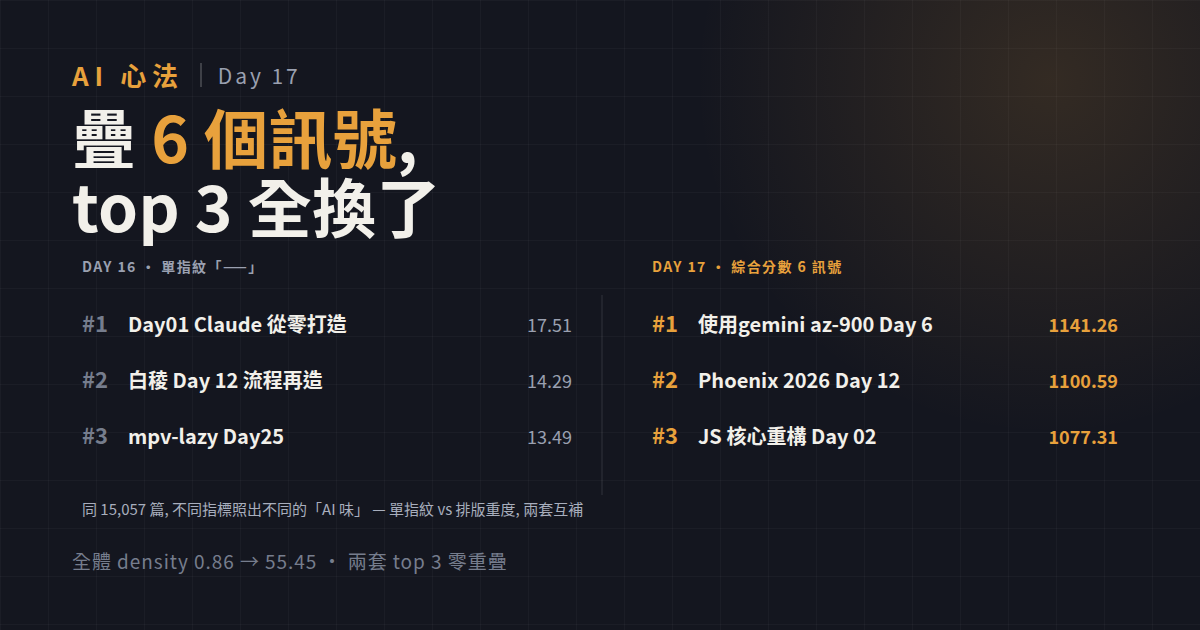
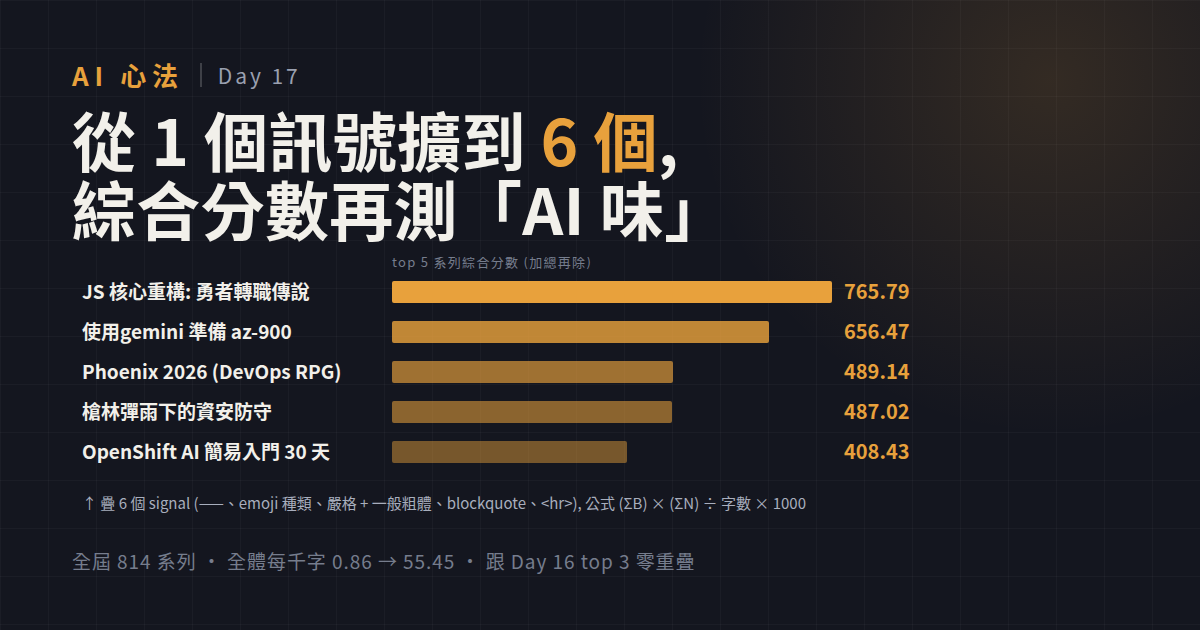
Day 17 cover 改版: 仿 Day 16 樣式, 標題貼近原文
- 版式改成 Day 16 的水平長條圖 (top 5 系列綜合分數)
- 標題貼近 draft 原文: 「從 1 個訊號擴到 6 個, 綜合分數再測「AI 味」」, em 標「6 個」
- 5 根 bar: JS 核心重構 765.79 (full gold) → gemini az-900 656.47 → Phoenix 2026 489.14 → 槍林彈雨 487.02 → OpenShift AI 408.43 (bar 透明度漸降)
- 圖下註解: 「↑ 疊 6 個 signal (——、emoji 種類、嚴格 + 一般粗體、blockquote、<hr>), 公式 (ΣB) × (ΣN) ÷ 字數 × 1000」
- Foot: 全屆 814 系列 · 全體每千字 0.86 → 55.45 · 跟 Day 16 top 3 零重疊

diff --git a/05-notes/ironman/assets/cover-day17.html b/05-notes/ironman/assets/cover-day17.html
@@ -22,47 +22,41 @@ text{font-family:"Noto Sans CJK TC",sans-serif}
 <div class="wrap">
   <div class="top"><span class="mark">AI 心法</span><span class="bar"></span><span class="day">Day 17</span></div>
   <div>
-    <h1>疊 <em>6 個訊號</em>,<br>top 3 全換了</h1>
+    <h1>從 1 個訊號擴到 <em>6 個</em>,<br>綜合分數再測「AI 味」</h1>
   </div>
   <div class="chartwrap">
-  <svg width="1056" height="280" viewBox="0 0 1056 280">
-    <!-- Column headers -->
-    <text x="10" y="22" fill="#9aa0b0" font-size="14" letter-spacing=".1em" font-weight="700">DAY 16 · 單指紋「——」</text>
-    <text x="580" y="22" fill="#e8a13c" font-size="14" letter-spacing=".1em" font-weight="700">DAY 17 · 綜合分數 6 訊號</text>
+  <svg width="1056" height="270" viewBox="0 0 1056 270">
+    <!-- x-axis label -->
+    <text x="320" y="0" fill="#767d8d" font-size="13" letter-spacing=".1em" dy="10">top 5 系列綜合分數 (加總再除)</text>
 
-    <!-- Vertical divider -->
-    <line x1="530" y1="45" x2="530" y2="245" stroke="#ffffff20" stroke-width="1"/>
+    <!-- Row 1: JS 核心重構 (top, full gold) -->
+    <text x="10" y="42" fill="#f2f0ea" font-size="19" font-weight="700">JS 核心重構: 勇者轉職傳說</text>
+    <rect x="320" y="24" width="440" height="22" fill="#e8a13c" rx="2"/>
+    <text x="772" y="42" fill="#e8a13c" font-size="20" font-weight="900">765.79</text>
 
-    <!-- Row 1 -->
-    <text x="10" y="82" fill="#767d8d" font-size="22" font-weight="900">#1</text>
-    <text x="56" y="82" fill="#f2f0ea" font-size="20" font-weight="700">Day01 Claude 從零打造</text>
-    <text x="500" y="82" fill="#9aa0b0" font-size="18" text-anchor="end">17.51</text>
+    <!-- Row 2: 使用gemini 準備 az-900 -->
+    <text x="10" y="82" fill="#f2f0ea" font-size="19" font-weight="700">使用gemini 準備 az-900</text>
+    <rect x="320" y="64" width="377" height="22" fill="#e8a13cd0" rx="2"/>
+    <text x="772" y="82" fill="#e8a13c" font-size="20" font-weight="900">656.47</text>
 
-    <text x="580" y="82" fill="#e8a13c" font-size="22" font-weight="900">#1</text>
-    <text x="626" y="82" fill="#f2f0ea" font-size="20" font-weight="700">使用gemini az-900 Day 6</text>
-    <text x="1046" y="82" fill="#e8a13c" font-size="18" text-anchor="end" font-weight="700">1141.26</text>
+    <!-- Row 3: Phoenix 2026 -->
+    <text x="10" y="122" fill="#f2f0ea" font-size="19" font-weight="700">Phoenix 2026 (DevOps RPG)</text>
+    <rect x="320" y="104" width="281" height="22" fill="#e8a13ca8" rx="2"/>
+    <text x="772" y="122" fill="#e8a13c" font-size="20" font-weight="900">489.14</text>
 
-    <!-- Row 2 -->
-    <text x="10" y="138" fill="#767d8d" font-size="22" font-weight="900">#2</text>
-    <text x="56" y="138" fill="#f2f0ea" font-size="20" font-weight="700">白稜 Day 12 流程再造</text>
-    <text x="500" y="138" fill="#9aa0b0" font-size="18" text-anchor="end">14.29</text>
+    <!-- Row 4: 槍林彈雨 -->
+    <text x="10" y="162" fill="#f2f0ea" font-size="19" font-weight="700">槍林彈雨下的資安防守</text>
+    <rect x="320" y="144" width="280" height="22" fill="#e8a13c90" rx="2"/>
+    <text x="772" y="162" fill="#e8a13c" font-size="20" font-weight="900">487.02</text>
 
-    <text x="580" y="138" fill="#e8a13c" font-size="22" font-weight="900">#2</text>
-    <text x="626" y="138" fill="#f2f0ea" font-size="20" font-weight="700">Phoenix 2026 Day 12</text>
-    <text x="1046" y="138" fill="#e8a13c" font-size="18" text-anchor="end" font-weight="700">1100.59</text>
+    <!-- Row 5: OpenShift AI -->
+    <text x="10" y="202" fill="#f2f0ea" font-size="19" font-weight="700">OpenShift AI 簡易入門 30 天</text>
+    <rect x="320" y="184" width="235" height="22" fill="#e8a13c78" rx="2"/>
+    <text x="772" y="202" fill="#e8a13c" font-size="20" font-weight="900">408.43</text>
 
-    <!-- Row 3 -->
-    <text x="10" y="194" fill="#767d8d" font-size="22" font-weight="900">#3</text>
-    <text x="56" y="194" fill="#f2f0ea" font-size="20" font-weight="700">mpv-lazy Day25</text>
-    <text x="500" y="194" fill="#9aa0b0" font-size="18" text-anchor="end">13.49</text>
-
-    <text x="580" y="194" fill="#e8a13c" font-size="22" font-weight="900">#3</text>
-    <text x="626" y="194" fill="#f2f0ea" font-size="20" font-weight="700">JS 核心重構 Day 02</text>
-    <text x="1046" y="194" fill="#e8a13c" font-size="18" text-anchor="end" font-weight="700">1077.31</text>
-
-    <!-- Bottom annotation -->
-    <text x="10" y="265" fill="#a8aebd" font-size="15">同 15,057 篇, 不同指標照出不同的「AI 味」 — 單指紋 vs 排版重度, 兩套互補</text>
+    <!-- Annotation -->
+    <text x="10" y="252" fill="#a8aebd" font-size="15">↑ 疊 6 個 signal (——、emoji 種類、嚴格 + 一般粗體、blockquote、&lt;hr&gt;), 公式 (ΣB) × (ΣN) ÷ 字數 × 1000</text>
   </svg>
   </div>
-  <div class="foot">全體 density 0.86 → 55.45 · 兩套 top 3 零重疊</div>
+  <div class="foot">全屆 814 系列 · 全體每千字 0.86 → 55.45 · 跟 Day 16 top 3 零重疊</div>
 </div></body></html>
